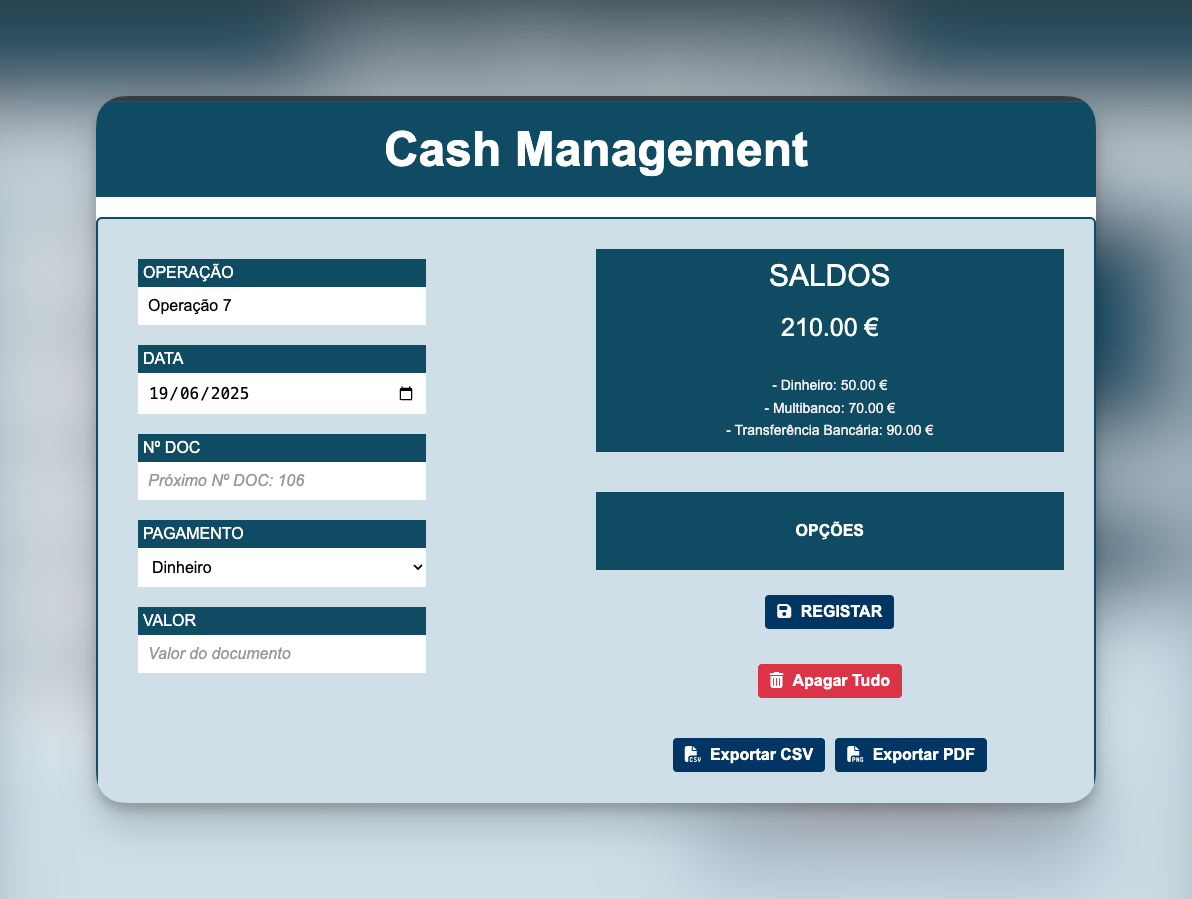
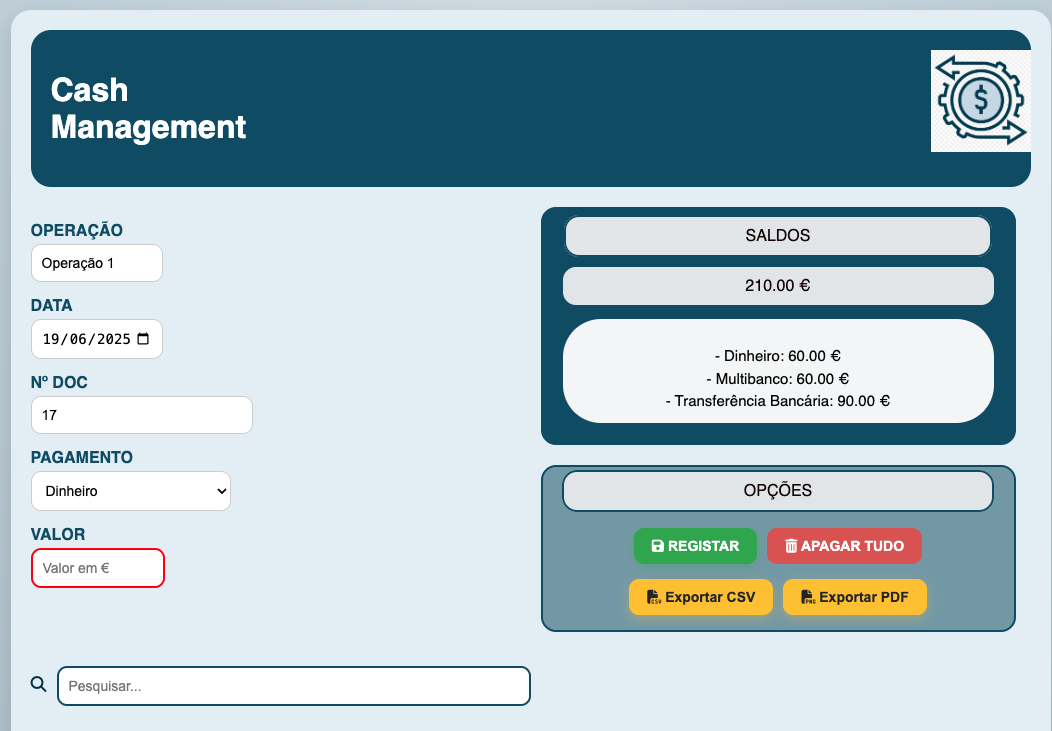
version 3.0.2

diff --git a/index.html b/index.html
@@ -14,24 +14,26 @@
 <body onload="setarDataAtual(); document.getElementById('operacao').value = 'Operação 1'">
   <div class="container">
     <header>
-      <h1>Cash Management</h1>
+      <h1>Cash </br>Management</h1>
+      <img src="assets/images/562-5629201_cash-management-icon-clipart-png-download-cash-flow.png" alt="Ícone de de app" class="icone-main" />
+
     </header>
 
     <main>
       <div class="form-section">
         <div class="left-form">
           <label for="operacao">OPERAÇÃO</label>
-          <input type="text" id="operacao" name="operacao" readonly />
+          <input type="text" id="operacao" name="operacao" class="input-pequeno" readonly />
 
           <label for="data">DATA</label>
-          <input type="date" id="data" name="data" />
+          <input type="date" id="data" name="data" class="input-pequeno" />
 
           <label for="num-doc">Nº DOC</label>
-          <input type="number" id="num-doc" placeholder="Insire o Nº DOC" name="num-doc" required />
+          <input type="number" id="num-doc" placeholder="Insire o Nº DOC" name="num-doc" class="input-medio" required />
           <small id="proximo-doc" style="color: gray; font-style: italic"></small>
 
           <label for="pagamento">PAGAMENTO</label>
-          <select id="pagamento" name="pagamento">
+          <select id="pagamento" name="pagamento"class="input-medio">
             <option value="Dinheiro">Dinheiro</option>
             <option value="Multibanco">Multibanco</option>
             <option value="Transferência Bancária">
@@ -40,13 +42,13 @@
           </select>
 
           <label for="valor">VALOR</label>
-          <input type="number" id="valor" placeholder="Valor do documento" name="valor" step="0.01" />
+          <input type="number" id="valor" placeholder="Valor em €" name="valor" step="0.01" class="input-pequeno" />
         </div>
         <div class="right-form">
           <div class="caixa-total">
-            <span>SALDOS</span>
-            <div id="total">0.00 €</div>
-            <div id="totaisPagamento" class="totais-por-pagamento" style="margin-top: 10px">
+            <span class="title-opcoes">SALDOS</span>
+            <div class="title-opcoes" id="total">0.00 €</div>
+            <div id="totaisPagamento" class="totais-por-pagamento">
               <!-- Os totais por método aparecerão aqui dinamicamente -->
             </div>
           </div>

diff --git a/style.css b/style.css
@@ -10,12 +10,24 @@ body {
 
 /* Container principal */
 .container {
+  position: relative;
   max-width: 1000px;
   margin: 40px auto;
   background: #e2edf4;
   padding: 20px;
   border-radius: 20px;
   box-shadow: 0 8px 25px rgba(0, 0, 0, 0.15);
+  
+}
+.icone-main {
+  position: absolute;
+  display: block;
+  margin-left: auto;
+  margin-top: 20px;
+  top: 20px;
+  right: 20px;
+  width: 100px;
+  height: auto;
 }
 
 /* Cabeçalho */
@@ -23,9 +35,8 @@ header {
   background-color: #0d4a63;
   color: white;
   padding: 20px;
-  text-align: center;
-  border-top-left-radius: 20px;
-  border-top-right-radius: 20px;
+  text-align: left;
+  border-radius: 20px;
 }
 
 /* Formulário */
@@ -44,6 +55,14 @@ header {
 }
 
 /* Campos */
+
+.input-pequeno {
+  width: 110px; 
+}
+.input-medio {
+  width: 200px; 
+}
+
 label {
   display: block;
   margin-top: 15px;
@@ -77,15 +96,25 @@ select:focus {
   background-color: #0d4a63;
   color: white;
   padding: 20px;
+  margin-bottom: 15px;
   text-align: center;
   border-radius: 15px;
 }
 
 #totaisPagamento {
-  font-size: 14px;
-  margin-top: 10px;
+  font-size: 15px;
   line-height: 1.5;
+  color: #040404;
+  text-align: center;
+  border-radius: 40px;
+  background-color: #f3f5f6;
+  border: 2px solid #0d4a63;
+  padding-top: 4px;  /* antes podia estar muito alto */
+  padding-bottom: 10px;
+  margin-top: 10px;
 }
+
+
 
 /* Botões */
 .acao-botoes {
@@ -183,6 +212,7 @@ button:disabled {
   display: flex;
   align-items: center;
   gap: 10px;
+  width: 500px;
 }
 
 .campo-pesquisa input {
